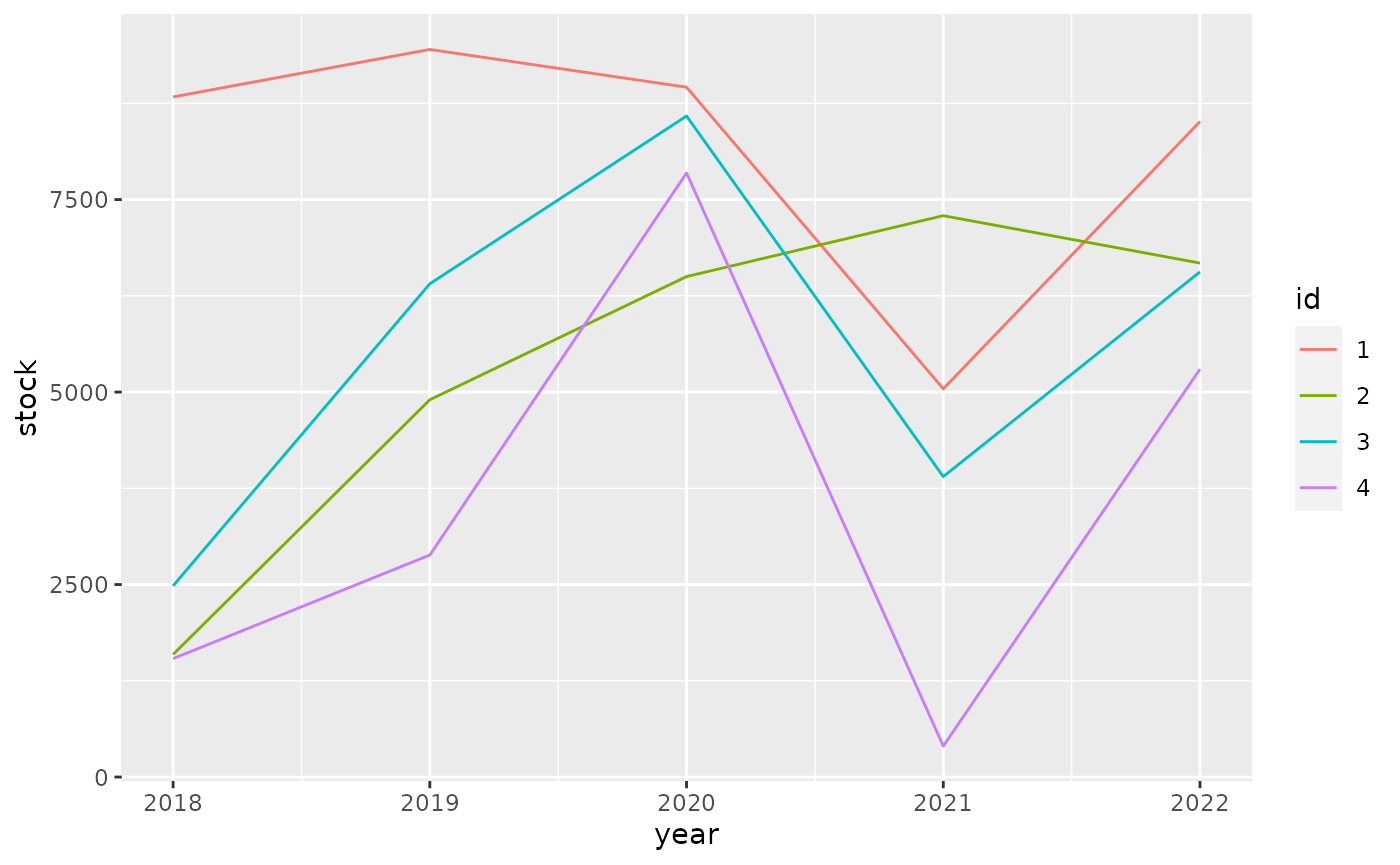
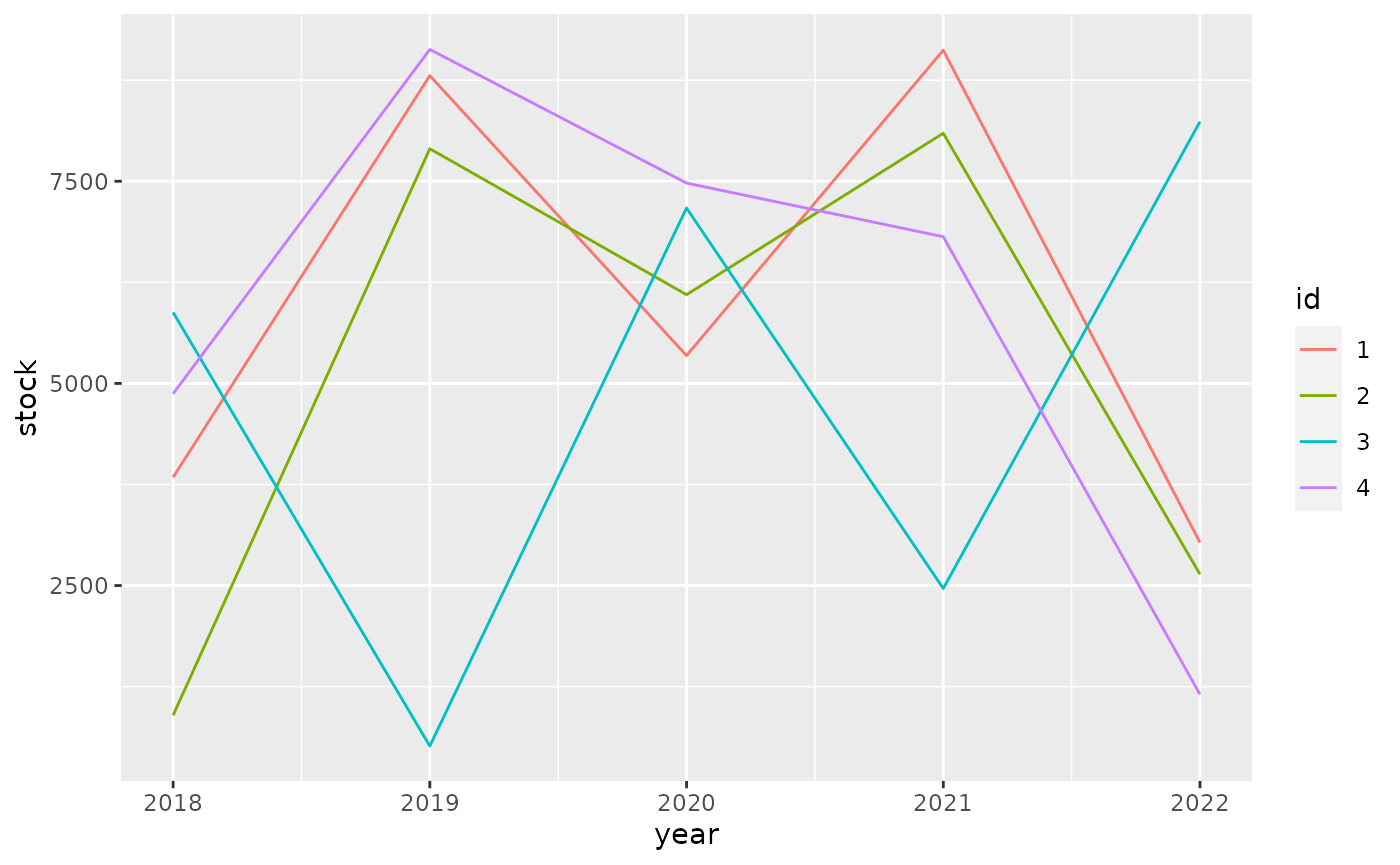
Built site for tibble: 3.1.0.9000@ec50529

diff --git a/dev/articles/formats.html b/dev/articles/formats.html
@@ -221,10 +221,10 @@
 <span class="co">#&gt; # A tibble: 4 x 6</span>
 <span class="co">#&gt;   id       `2018`    `2019`    `2020`    `2021`    `2022`</span>
 <span class="co">#&gt;   &lt;fct&gt; &lt;dbl:fmt&gt; &lt;dbl:fmt&gt; &lt;dbl:fmt&gt; &lt;dbl:fmt&gt; &lt;dbl:fmt&gt;</span>
-<span class="co">#&gt; 1 1     $8,833.61 $9,450.12 $8,959.84 $5,041.97 $8,513.83</span>
-<span class="co">#&gt; 2 2     $1,591.81 $4,899.91 $6,500.03 $7,290.96 $6,675.67</span>
-<span class="co">#&gt; 3 3     $2,483.74 $6,406.61 $8,585.40 $3,901.90 $6,561.69</span>
-<span class="co">#&gt; 4 4     $1,537.89 $2,883.36 $7,845.71   $401.96 $5,298.30</span></code></pre></div>
+<span class="co">#&gt; 1 1     $3,839.30 $8,805.89 $5,343.88 $9,120.37 $3,033.16</span>
+<span class="co">#&gt; 2 2       $895.93 $7,902.03 $6,097.47 $8,093.37 $2,639.37</span>
+<span class="co">#&gt; 3 3     $5,878.72   $515.24 $7,168.71 $2,463.74 $8,236.82</span>
+<span class="co">#&gt; 4 4     $4,872.88 $9,129.86 $7,477.21 $6,814.19 $1,154.48</span></code></pre></div>
 <p>For ggplot2 we need to do <a href="https://github.com/tidyverse/ggplot2/pull/4065" class="external-link">some work</a> to show apply the formatting to the scales.</p>
 <div class="sourceCode" id="cb6"><pre class="downlit sourceCode r">
 <code class="sourceCode R"><span class="kw"><a href="https://rdrr.io/r/base/library.html" class="external-link">library</a></span><span class="op">(</span><span class="va"><a href="https://ggplot2.tidyverse.org" class="external-link">ggplot2</a></span><span class="op">)</span>
@@ -235,10 +235,10 @@
   <span class="fu"><a href="https://ggplot2.tidyverse.org/reference/geom_path.html" class="external-link">geom_line</a></span><span class="op">(</span><span class="op">)</span></code></pre></div>
 <p><img src="formats_files/figure-html/unnamed-chunk-7-1.png" width="700"></p>
 <p>It pays off to specify formatting very early in the process. The diagram below shows the principal stages of data analysis and exploration from “R for data science”.</p>
-<div id="htmlwidget-0cbc680bec61c717ec8b" style="width:700px;height:432.632880098888px;" class="DiagrammeR html-widget"></div>
-<script type="application/json" data-for="htmlwidget-0cbc680bec61c717ec8b">{"x":{"diagram":"graph TD\n  Import --> Tidy\n  Tidy --> Transform\n  Transform --> Visualize\n  Visualize --> Communicate\n  Visualize --> Model\n  Model -.-> Transform"},"evals":[],"jsHooks":[]}</script><p>The subsequent diagram adds data formats, communication options, and explicit data formatting. The original r4ds transitions are highlighted in bold. There are two principal options where to apply formatting for results: right before communicating them, or right after importing.</p>
-<div id="htmlwidget-7074bd0aec0c52db16be" style="width:700px;height:432.632880098888px;" class="DiagrammeR html-widget"></div>
-<script type="application/json" data-for="htmlwidget-7074bd0aec0c52db16be">{"x":{"diagram":"graph TD\n  .csv --> Import\n  API --> Import\n  DBI --> Import\n  dbplyr --> Import\n  Import -.-> Format[Format for analysis]\n  Format -.-> Tidy\n\n  subgraph r4ds\n  Import ==> Tidy\n  Tidy ==> Transform\n  Transform ==> Visualize\n  Visualize ==> Model\n  Model -.-> Transform\n  Visualize ==> Communicate\n  end\n\n  Visualize -.-> FormatComm[Format for communication]\n  FormatComm -.-> Communicate\n\n  FormatComm -- Apply formatting early --> Format\n\n  dbplyr -.-> Tidy\n  dbplyr -.-> Transform\n  dbplyr -.-> Visualize\n\n  Communicate --> gt\n  Communicate --> ggplot2\n  Communicate --> DT\n  Communicate --> plotly"},"evals":[],"jsHooks":[]}</script><p>Applying formatting early in the process gives the added benefit of showing the data in a useful format during the “Tidy”, “Transform”, and “Visualize” stages. For this to be useful, we need to ensure that the formatting options applied early:</p>
+<div id="htmlwidget-b25306511c1233054964" style="width:700px;height:432.632880098888px;" class="DiagrammeR html-widget"></div>
+<script type="application/json" data-for="htmlwidget-b25306511c1233054964">{"x":{"diagram":"graph TD\n  Import --> Tidy\n  Tidy --> Transform\n  Transform --> Visualize\n  Visualize --> Communicate\n  Visualize --> Model\n  Model -.-> Transform"},"evals":[],"jsHooks":[]}</script><p>The subsequent diagram adds data formats, communication options, and explicit data formatting. The original r4ds transitions are highlighted in bold. There are two principal options where to apply formatting for results: right before communicating them, or right after importing.</p>
+<div id="htmlwidget-1eead5079dd7bec8a7ce" style="width:700px;height:432.632880098888px;" class="DiagrammeR html-widget"></div>
+<script type="application/json" data-for="htmlwidget-1eead5079dd7bec8a7ce">{"x":{"diagram":"graph TD\n  .csv --> Import\n  API --> Import\n  DBI --> Import\n  dbplyr --> Import\n  Import -.-> Format[Format for analysis]\n  Format -.-> Tidy\n\n  subgraph r4ds\n  Import ==> Tidy\n  Tidy ==> Transform\n  Transform ==> Visualize\n  Visualize ==> Model\n  Model -.-> Transform\n  Visualize ==> Communicate\n  end\n\n  Visualize -.-> FormatComm[Format for communication]\n  FormatComm -.-> Communicate\n\n  FormatComm -- Apply formatting early --> Format\n\n  dbplyr -.-> Tidy\n  dbplyr -.-> Transform\n  dbplyr -.-> Visualize\n\n  Communicate --> gt\n  Communicate --> ggplot2\n  Communicate --> DT\n  Communicate --> plotly"},"evals":[],"jsHooks":[]}</script><p>Applying formatting early in the process gives the added benefit of showing the data in a useful format during the “Tidy”, “Transform”, and “Visualize” stages. For this to be useful, we need to ensure that the formatting options applied early:</p>
 <ul>
 <li>give a good user experience for analysis
 <ul>

diff --git a/dev/reference/tribble.html b/dev/reference/tribble.html
@@ -250,7 +250,20 @@ i.e. exactly how  the <code>...</code> argument is processed.</p></div>
 #&gt;   x     y        
 #&gt;   </span><span style='color: #949494;font-style: italic;'>&lt;chr&gt;</span><span> </span><span style='color: #949494;font-style: italic;'>&lt;list&gt;</span><span>   
 #&gt; </span><span style='color: #BCBCBC;'>1</span><span> a     </span><span style='color: #949494;'>&lt;int [3]&gt;</span><span>
-#&gt; </span><span style='color: #BCBCBC;'>2</span><span> b     </span><span style='color: #949494;'>&lt;int [3]&gt;</span><span></div></span></pre>
+#&gt; </span><span style='color: #BCBCBC;'>2</span><span> b     </span><span style='color: #949494;'>&lt;int [3]&gt;</span><span></div><div class='input'>
+<span class='co'># Use dplyr::mutate(dplyr::across(...)) to assign an explicit type</span>
+<span class='fu'>tribble</span><span class='op'>(</span>
+  <span class='op'>~</span> <span class='va'>a</span>,          <span class='op'>~</span> <span class='va'>b</span>,          <span class='op'>~</span> <span class='va'>c</span>,
+    <span class='fl'>1</span>, <span class='st'>"2000-01-01"</span>,        <span class='st'>"1.5"</span>
+<span class='op'>)</span> <span class='op'>%&gt;%</span>
+  <span class='fu'>dplyr</span><span class='fu'>::</span><span class='fu'><a href='https://dplyr.tidyverse.org/reference/mutate.html'>mutate</a></span><span class='op'>(</span>
+    <span class='fu'>dplyr</span><span class='fu'>::</span><span class='fu'><a href='https://dplyr.tidyverse.org/reference/across.html'>across</a></span><span class='op'>(</span><span class='va'>a</span>, <span class='va'>as.integer</span><span class='op'>)</span>,
+    <span class='fu'>dplyr</span><span class='fu'>::</span><span class='fu'><a href='https://dplyr.tidyverse.org/reference/across.html'>across</a></span><span class='op'>(</span><span class='va'>b</span>, <span class='va'>as.Date</span><span class='op'>)</span>
+  <span class='op'>)</span>
+</div><div class='output co'>#&gt; </span><span style='color: #949494;'># A tibble: 1 x 3</span><span>
+#&gt;       a b          c    
+#&gt;   </span><span style='color: #949494;font-style: italic;'>&lt;int&gt;</span><span> </span><span style='color: #949494;font-style: italic;'>&lt;date&gt;</span><span>     </span><span style='color: #949494;font-style: italic;'>&lt;chr&gt;</span><span>
+#&gt; </span><span style='color: #BCBCBC;'>1</span><span>     1 2000-01-01 1.5  </div></span></pre>
   </div>
   <div class="col-md-3 hidden-xs hidden-sm" id="pkgdown-sidebar">
     <nav id="toc" data-toggle="toc" class="sticky-top">

diff --git a/dev/reference/formatting.html b/dev/reference/formatting.html
@@ -66,6 +66,9 @@ whether a variable is, e.g., &amp;lt;chr&amp;gt; or &amp;lt;fct&amp;gt; (charact
 Printing can be tweaked for a one-off call by calling print() explicitly
 and setting arguments like n and width. More persistent control is
 available by setting the options described below.
+See also vignette(&quot;digits&quot;, package = &quot;pillar&quot;) for a comparison to base options,
+and pillar::num() and pillar::char() for creating columns
+with custom formatting options.
 As of tibble 3.1.0, printing is handled entirely by the pillar package.
 If you implement a package that extend tibble,
 the printed output can be customized in various ways.
@@ -218,7 +221,10 @@ whether a variable is, e.g., <code>&lt;chr&gt;</code> or <code>&lt;fct&gt;</code
 
 <p>Printing can be tweaked for a one-off call by calling <code><a href='https://rdrr.io/r/base/print.html'>print()</a></code> explicitly
 and setting arguments like <code>n</code> and <code>width</code>. More persistent control is
-available by setting the options described below.</p>
+available by setting the options described below.
+See also <code><a href='https://pillar.r-lib.org/articles/digits.html'>vignette("digits", package = "pillar")</a></code> for a comparison to base options,
+and <code><a href='https://pillar.r-lib.org/reference/num.html'>pillar::num()</a></code> and <code><a href='https://pillar.r-lib.org/reference/char.html'>pillar::char()</a></code> for creating columns
+with custom formatting options.</p>
 <p>As of tibble 3.1.0, printing is handled entirely by the <span class="pkg">pillar</span> package.
 If you implement a package that extend tibble,
 the printed output can be customized in various ways.

diff --git a/dev/articles/types.html b/dev/articles/types.html
@@ -352,7 +352,7 @@
 #&gt; $ factor        &lt;fct&gt; A
 #&gt; $ ordered       &lt;ord&gt; a
 #&gt; $ Date          &lt;date&gt; 2021-04-18
-#&gt; $ POSIXt        &lt;dttm&gt; 2021-04-18 02:33:32
+#&gt; $ POSIXt        &lt;dttm&gt; 2021-04-18 03:15:34
 #&gt; $ difftime      &lt;drtn&gt; 1 secs
 #&gt; $ hms           &lt;time&gt; 00:00:01
 #&gt; $ integer64     &lt;int64&gt; 10000000000
@@ -388,7 +388,7 @@
 <span class="co">#&gt;             "sym"</span>
 <span class="co">#&gt;         }, typeof(x))</span>
 <span class="co">#&gt; }</span>
-<span class="co">#&gt; &lt;bytecode: 0x5588405e0660&gt;</span>
+<span class="co">#&gt; &lt;bytecode: 0x56187fb8aeb8&gt;</span>
 <span class="co">#&gt; &lt;environment: namespace:pillar&gt;</span></code></pre></div>
 </div>
   </div>
